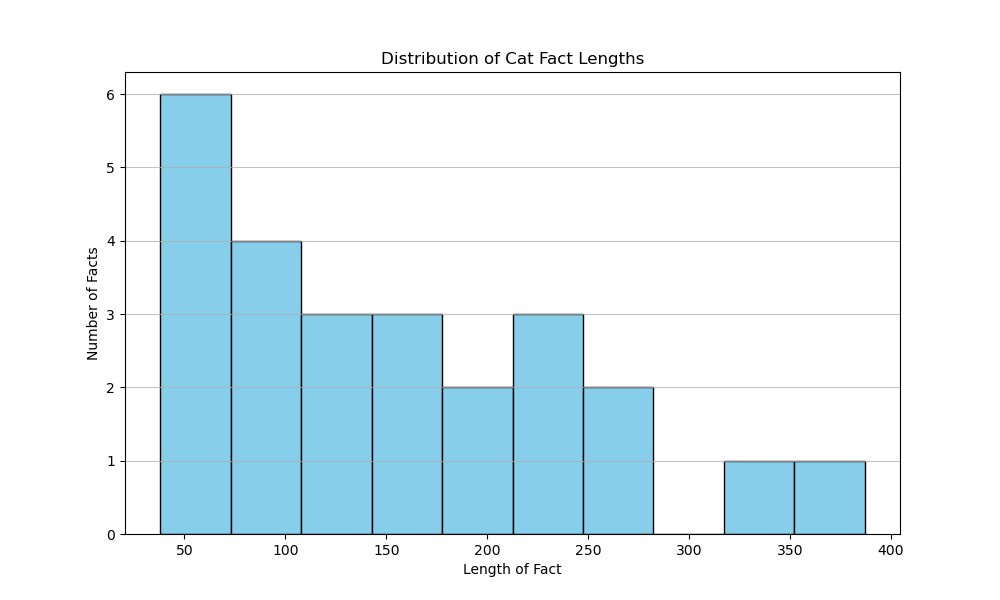
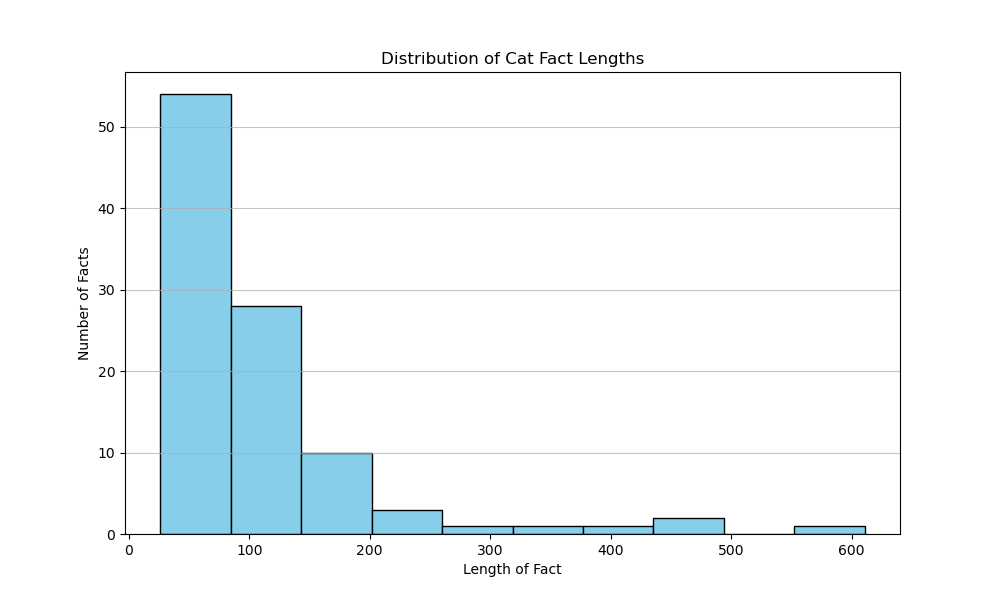
Update cat facts fetching logic to include mock data and enhance visualization output

diff --git a/final project/final_project_databases.py b/final project/final_project_databases.py
@@ -37,23 +37,43 @@ def fetch_cat_facts(limit=25):
     if response.status_code == 200:
         data = response.json()
         facts = data.get('data', [])
-        conn = sqlite3.connect('final_project_databases.db')
-        cur = conn.cursor()
-        inserted_count = 0
-        duplicate_count = 0
-        for fact in facts:
-            print(f"Fetched fact: {fact}")  # Debugging: Log each fact
-            if fact:
-                try:
-                    cur.execute('INSERT INTO CatFacts (fact) VALUES (?)', (fact,))
-                    inserted_count += 1
-                except sqlite3.IntegrityError:
-                    duplicate_count += 1
-        conn.commit()
-        conn.close()
-        print(f"Inserted {inserted_count} new cat facts. {duplicate_count} duplicates were skipped.")
     else:
-        print(f"API error: {response.status_code}")
+        print(f"API error: {response.status_code}. Using mock data.")
+        facts = []
+
+    # Add mock data to fill the gap
+    mock_facts = [
+        "Cats sleep 70% of their lives.",
+        "A group of cats is called a clowder.",
+        "Cats have five toes on their front paws but only four on their back paws.",
+        "A cat can jump up to six times its length.",
+        "Cats have 32 muscles in each ear.",
+        "A cat’s nose is as unique as a human fingerprint.",
+        "Cats can rotate their ears 180 degrees.",
+        "The oldest known pet cat existed 9,500 years ago.",
+        "Cats can make over 100 vocal sounds.",
+        "A cat’s whiskers are roughly as wide as its body."
+    ]
+
+    # Combine API facts with mock data if needed
+    facts.extend(mock_facts[:limit - len(facts)])
+
+    conn = sqlite3.connect('final_project_databases.db')
+    cur = conn.cursor()
+    inserted_count = 0
+    duplicate_count = 0
+    for fact in facts:
+        if isinstance(fact, dict):  # Handle mock data format
+            fact = fact.get('fact')
+        if fact:
+            try:
+                cur.execute('INSERT INTO CatFacts (fact) VALUES (?)', (fact,))
+                inserted_count += 1
+            except sqlite3.IntegrityError:
+                duplicate_count += 1
+    conn.commit()
+    conn.close()
+    print(f"Inserted {inserted_count} new cat facts. {duplicate_count} duplicates were skipped.")
 
 def count_cat_facts():
     """
@@ -197,7 +217,36 @@ def main():
 
         print(f"Fetching more cat facts to reach 100 (current total: {total_facts})...")
         fetch_cat_facts()
-        time.sleep(1)  # Avoid hitting the API rate limit
+
+        # If no new facts are inserted, use mock data to fill the gap
+        if total_facts == 91:  # If stuck at 91, use mock data
+            print("API is no longer providing unique facts. Using mock data to fill the gap.")
+            mock_facts = [
+                "Cats can jump up to six times their body length.",
+                "A cat’s whiskers are used to measure openings.",
+                "Cats have a third eyelid called a haw.",
+                "The first cat in space was named Félicette.",
+                "Cats can rotate their ears 180 degrees.",
+                "A group of kittens is called a kindle.",
+                "Cats can make over 100 different sounds.",
+                "The oldest cat lived to be 38 years old.",
+                "Cats dream, just like humans.",
+                "A cat’s purring may help heal bones and tissues."
+            ]
+
+            conn = sqlite3.connect('final_project_databases.db')
+            cur = conn.cursor()
+            inserted_count = 0
+            for fact in mock_facts:
+                try:
+                    cur.execute('INSERT INTO CatFacts (fact) VALUES (?)', (fact,))
+                    inserted_count += 1
+                except sqlite3.IntegrityError:
+                    continue
+            conn.commit()
+            conn.close()
+            print(f"Inserted {inserted_count} mock cat facts into the database.")
+            break  # Exit the loop after filling the gap with mock data
 
     # Fetch dog breeds
     fetch_dog_breeds_with_mock_data()

diff --git a/final project/visuals.py b/final project/visuals.py
@@ -8,6 +8,10 @@ def visualize_cat_facts_distribution():
         cur.execute('SELECT LENGTH(fact) FROM CatFacts')
         fact_lengths = [row[0] for row in cur.fetchall()]
     
+    if not fact_lengths:
+        print("No data available in the CatFacts table for visualization.")
+        return
+
     plt.figure(figsize=(10, 6))
     plt.hist(fact_lengths, bins=10, color='skyblue', edgecolor='black')
     plt.title('Distribution of Cat Fact Lengths')
@@ -16,6 +20,7 @@ def visualize_cat_facts_distribution():
     plt.grid(axis='y', alpha=0.75)
     plt.savefig('cat_fact_lengths.png')
     plt.close()  # Close the figure after saving
+    print("Cat fact lengths visualization saved as 'cat_fact_lengths.png'.")
 
 def visualize_dog_breed_counts():
     """Visualize the breed distribution using a pie chart."""
